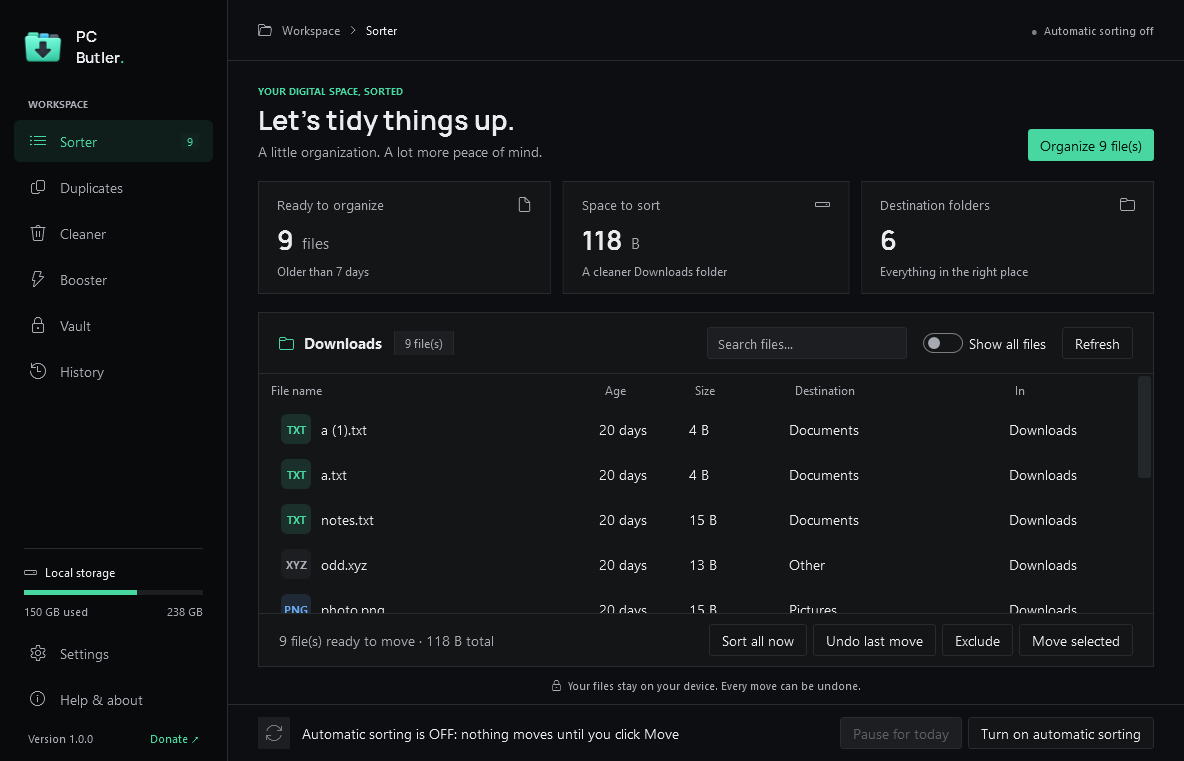
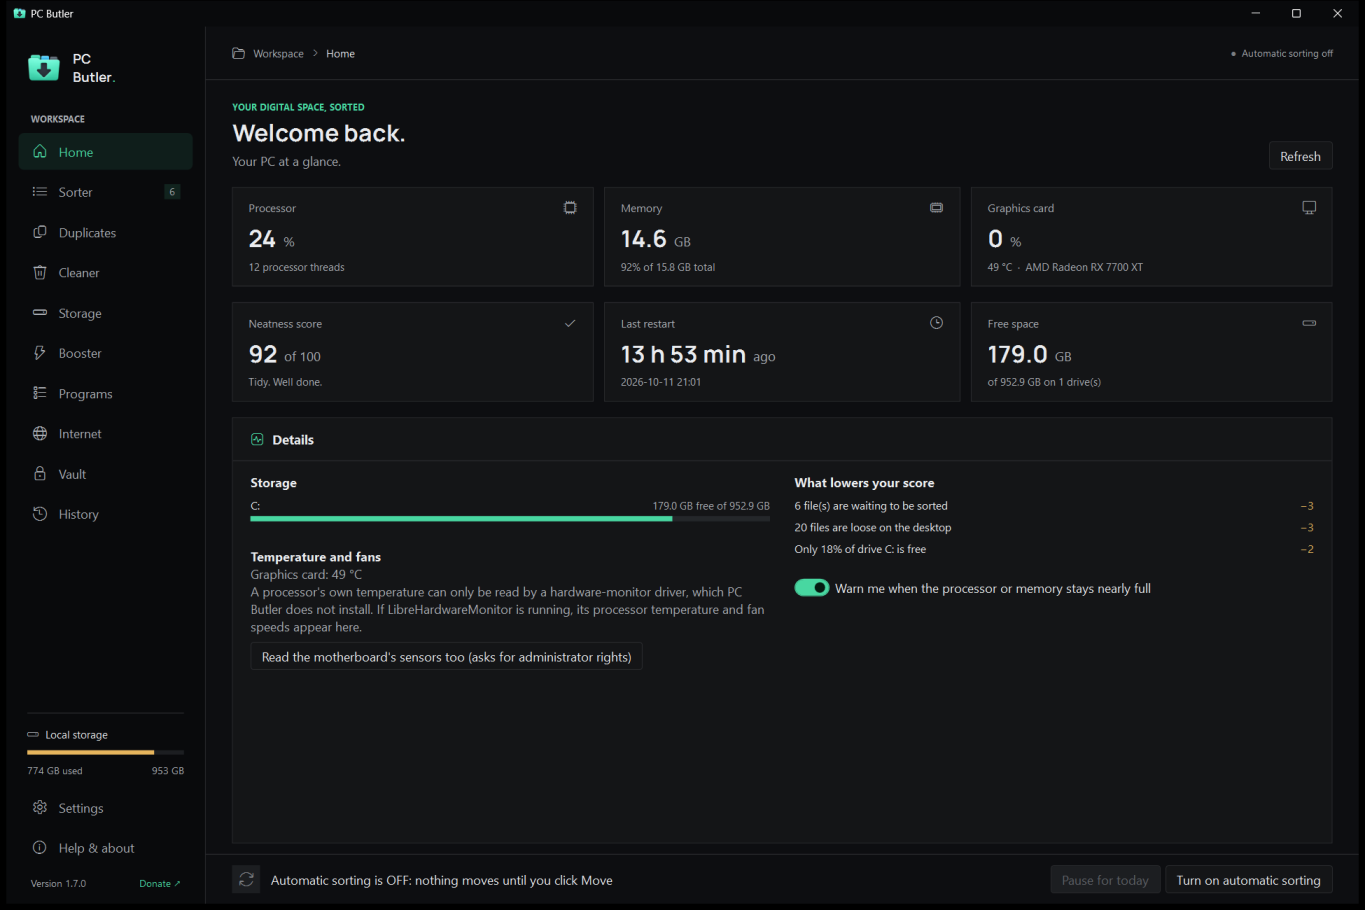
New screenshots: the Home and Sorter pages as of version 1.7

diff --git a/README.md b/README.md
@@ -6,7 +6,9 @@ A small Windows program that keeps your PC tidy. It moves files that have been s
 
 PC Butler is the C# rewrite of [Downloads Sorter](https://github.com/hmodymac8-droid/downloads-sorter), with the same look and everything it could do, plus the pages added since. On first start it brings along Downloads Sorter's settings, history and vault (it copies them; the old program keeps working).
 
-![PC Butler](docs/screenshot.png)
+![PC Butler: the Home page](docs/screenshot.png)
+
+![PC Butler: the Sorter page](docs/screenshot-sorter.png)
 
 ## Features
 
